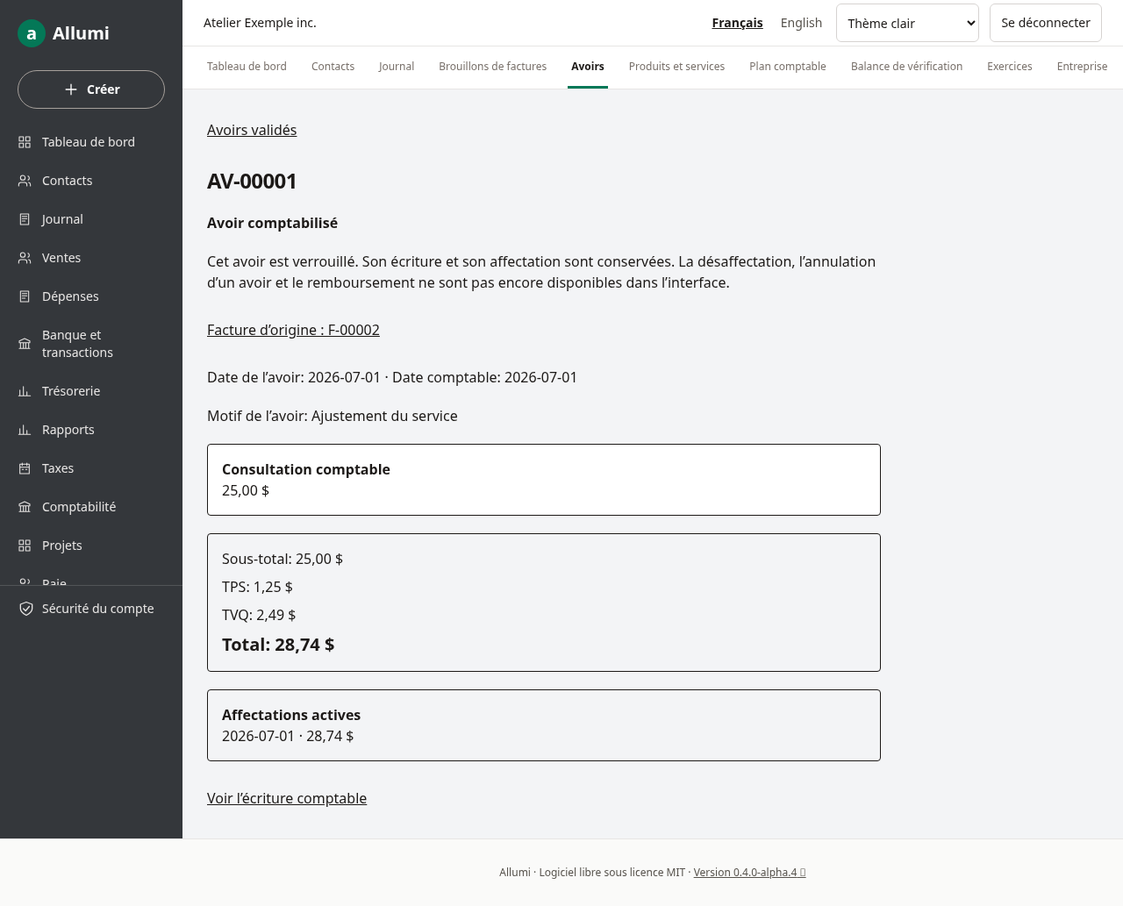
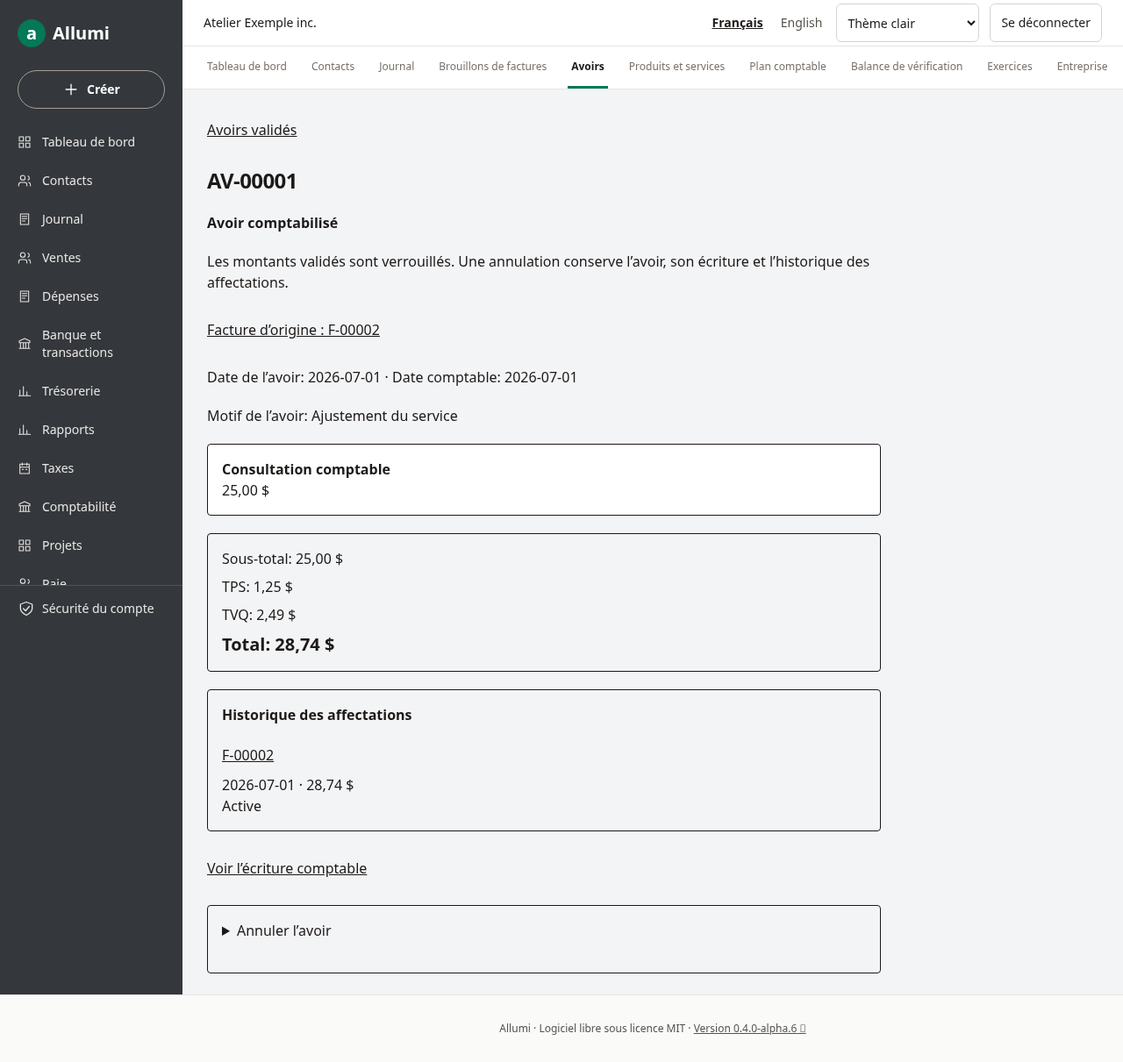
feat(sales): void credit notes with atomic unapplication and history

diff --git a/tests/integration/credit-voiding.test.ts b/tests/integration/credit-voiding.test.ts
@@ -1,0 +1,100 @@
+import { afterAll,beforeAll,expect,it } from "vitest";
+import type pg from "pg";
+import { saveDraft,getDraft,postInvoice,getInvoice,saveCreditDraft,getCreditDraft,postCreditNote,getPostedCredit,getInvoiceOpenCents,voidInvoice,voidCreditNote } from "@/modules/sales";
+import { withCompany } from "@/platform/tenant";
+import { owner } from "./helpers";
+import { randomUUID } from "node:crypto";
+import { appClient, inContext, entry, line, seedWorld,W } from "./world";
+const actor={userId:W.userOwnerA,companyId:W.companyA};
+const reader={...actor,userId:W.userReader};
+let db:pg.Client;
+beforeAll(async()=>{db=await owner();await seedWorld(db);await db.query("INSERT INTO number_sequence(company_id,key,next_value,prefix,padding) VALUES ($1,'JOURNAL_ENTRY',1,'J-',5),($1,'INVOICE',1,'F-',5),($1,'CREDIT_NOTE',1,'AV-',5)",[W.companyA]);});
+afterAll(async()=>{await db?.end();});
+async function invoice(){
+  const id=await saveDraft(actor,{contactId:W.customer,issueDate:"2026-06-01",dueDate:"2026-07-01",lines:[{description:"Service",quantity:"1",unitPrice:"100",accountId:W.sales,taxCodeId:W.taxCodeStandard}]});
+  await postInvoice(actor,id,(await getDraft(actor,id))!.revision,"2026-06-01");return (await getInvoice(actor,id))!;
+}
+async function credit(source:Awaited<ReturnType<typeof invoice>>,amount="25"){
+ const input={issueDate:"2026-07-01",memo:"Partial adjustment",lines:[{lineId:source.lines[0]!.id,amount}]};
+ const id=await saveCreditDraft(actor,source.id,input);return {input,draft:(await getCreditDraft(actor,id))!};
+}
+
+async function postedCredit() {
+ const source=await invoice();const {draft}=await credit(source);
+ await postCreditNote(actor,draft.id,draft.revision,"2026-07-01");
+ return {source,posted:(await getPostedCredit(actor,draft.id))!};
+}
+it("unapplies and exactly reverses once under concurrent retries, preserving history and restoring the invoice",async()=>{
+ const {source,posted}=await postedCredit();
+ await expect(voidCreditNote(reader,posted.id,"2026-07-02","Correction")).rejects.toThrow();
+ await expect(voidCreditNote({userId:W.userOwnerB,companyId:W.companyB},posted.id,"2026-07-02","Correction")).rejects.toThrow();
+ expect(await Promise.all([1,2].map(()=>voidCreditNote(actor,posted.id,"2026-07-02","Correction")))).toEqual([posted.id,posted.id]);
+ const result=(await getPostedCredit(reader,posted.id))!;
+ expect(result).toMatchObject({status:"VOID",number:posted.number,totalCents:posted.totalCents,journalEntryId:posted.journalEntryId,voidReason:"Correction",voidedById:actor.userId});
+ expect(result.creditsApplied).toHaveLength(1);
+ expect(result.creditsApplied[0]).toMatchObject({id:posted.creditsApplied[0]!.id,unappliedById:actor.userId,unappliedDate:new Date("2026-07-02")});
+ expect(await getInvoiceOpenCents(reader,source.id)).toBe(source.totalCents);
+ const original=(await db.query("SELECT account_id,contact_id,tax_id,tax_box,debit_cents::text,credit_cents::text FROM journal_line WHERE entry_id=$1 ORDER BY line_no",[posted.journalEntryId])).rows;
+ const reverse=(await db.query("SELECT account_id,contact_id,tax_id,tax_box,debit_cents::text,credit_cents::text FROM journal_line WHERE entry_id=$1 ORDER BY line_no",[result.voidEntryId])).rows;
+ expect(reverse).toEqual(original.map(l=>({...l,debit_cents:l.credit_cents,credit_cents:l.debit_cents})));
+ expect((await db.query("SELECT count(*)::int n FROM journal_entry WHERE reverses_entry_id=$1",[posted.journalEntryId])).rows[0].n).toBe(1);
+ const audit=(await db.query("SELECT after->>'status' AS status FROM audit_log WHERE entity_id=$1 AND action='row.update'",[posted.id])).rows;
+ expect(audit.map(r=>r.status)).toContain("VOID");
+ const applicationAudit=(await db.query("SELECT after->>'unapplied_by_id' AS actor FROM audit_log WHERE entity_id=$1 AND action='row.update'",[posted.creditsApplied[0]!.id])).rows;
+ expect(applicationAudit.map(r=>r.actor)).toContain(actor.userId);
+ await voidInvoice(actor,source.id,"2026-07-03","Corrected source");
+});
+it("rolls back the unapplication and number when the reversal period is locked",async()=>{
+ const {source,posted}=await postedCredit();
+ await db.query("UPDATE fiscal_period SET status='LOCKED',locked_at=now(),locked_by_id=$2 WHERE company_id=$1 AND period_number=8",[W.companyA,W.userOwnerA]);
+ const before=(await db.query("SELECT next_value::text FROM number_sequence WHERE company_id=$1 AND key='JOURNAL_ENTRY'",[actor.companyId])).rows;
+ await expect(voidCreditNote(actor,posted.id,"2026-08-02","Locked")).rejects.toThrow();
+ expect((await getPostedCredit(actor,posted.id))!.creditsApplied[0]!.unappliedDate).toBeNull();
+ expect((await getPostedCredit(actor,posted.id))!.status).toBe("POSTED");
+ expect(await getInvoiceOpenCents(actor,source.id)).toBe(8624n);
+ expect((await db.query("SELECT next_value::text FROM number_sequence WHERE company_id=$1 AND key='JOURNAL_ENTRY'",[actor.companyId])).rows).toEqual(before);
+ await voidCreditNote(actor,posted.id,"2026-09-01","Open period");
+});
+it("rejects missing reasons, draft credits and dates before posting or historical unapplication",async()=>{
+ const {source,posted}=await postedCredit();
+ for(const [date,reason] of [["bad","Reason"],["2026-07-02"," "],["2026-07-02","x".repeat(501)],["2026-06-30","Reason"]]) await expect(voidCreditNote(actor,posted.id,date!,reason!)).rejects.toThrow();
+ const draft=await credit(source);await expect(voidCreditNote(actor,draft.draft.id,"2026-07-02","Reason")).rejects.toThrow();
+ await withCompany(actor,tx=>tx.salesCreditApplication.update({where:{id:posted.creditsApplied[0]!.id,companyId:actor.companyId},data:{unappliedDate:new Date("2026-07-10"),unappliedById:actor.userId}}));
+ await expect(voidCreditNote(actor,posted.id,"2026-07-09","Too early")).rejects.toThrow("sales.creditVoidDate");
+ await voidCreditNote(actor,posted.id,"2026-07-10","Already unapplied");
+ expect((await getPostedCredit(actor,posted.id))!.creditsApplied[0]!.unappliedDate).toEqual(new Date("2026-07-10"));
+});
+it("does not silently remove an application to another invoice",async()=>{
+ const {posted}=await postedCredit();const target=await invoice();
+ await withCompany(actor,async tx=>{
+  await tx.salesCreditApplication.update({where:{id:posted.creditsApplied[0]!.id,companyId:actor.companyId},data:{unappliedDate:new Date("2026-07-02"),unappliedById:actor.userId}});
+  await tx.salesCreditApplication.create({data:{companyId:actor.companyId,creditNoteId:posted.id,invoiceId:target.id,amountCents:posted.totalCents,appliedDate:new Date("2026-07-02"),createdById:actor.userId}});
+ });
+ await expect(voidCreditNote(actor,posted.id,"2026-07-03","Correction")).rejects.toThrow("sales.creditVoidLinked");
+ expect(await getInvoiceOpenCents(actor,target.id)).toBe(8624n);
+ expect((await getPostedCredit(actor,posted.id))!.status).toBe("POSTED");
+});
+it("allows a replacement credit after voiding and serializes a competing new posting",async()=>{
+ const source=await invoice();const first=await credit(source,"60"),second=await credit(source,"60");
+ await postCreditNote(actor,first.draft.id,first.draft.revision,"2026-07-01");
+ await Promise.allSettled([voidCreditNote(actor,first.draft.id,"2026-07-02","Replace"),postCreditNote(actor,second.draft.id,second.draft.revision,"2026-07-02")]);
+ expect((await getPostedCredit(actor,first.draft.id))!.status).toBe("VOID");
+ await postCreditNote(actor,second.draft.id,second.draft.revision,"2026-07-02");
+ expect(await getInvoiceOpenCents(actor,source.id)).toBe(4599n);
+});
+
+it("refuses an active refund without altering the credit or allocation",async()=>{
+ const {posted}=await postedCredit();
+ const app=await appClient();const paymentId=randomUUID(),entryId=randomUUID();
+ try {await inContext(app,actor,async()=>{
+  await app.query("UPDATE sales_credit_application SET unapplied_date='2026-07-02',unapplied_by_id=app_current_user_id() WHERE credit_note_id=$1",[posted.id]);
+  await entry(app,{id:entryId,no:90001,date:"2026-07-02",source:"PAYMENT",sourceId:paymentId});
+  await line(app,entryId,1,W.bank,{credit:2874});
+  await line(app,entryId,2,W.receivable,{debit:2874,contact:W.customer});
+  await app.query("INSERT INTO payment(id,company_id,direction,ledger,contact_id,payment_date,amount_cents,account_id,method,journal_entry_id,created_by_id,updated_at) VALUES($1,app_tenant_id(),'SENT','RECEIVABLE',$2,'2026-07-02',2874,$3,'EFT',$4,app_current_user_id(),now())",[paymentId,W.customer,W.bank,entryId]);
+  await app.query("INSERT INTO payment_allocation(id,company_id,payment_id,sales_document_id,amount_cents,applied_date,created_by_id) VALUES(gen_random_uuid(),app_tenant_id(),$1,$2,2874,'2026-07-02',app_current_user_id())",[paymentId,posted.id]);
+ },{commit:true});} finally {await app.end();}
+ await expect(voidCreditNote(actor,posted.id,"2026-07-03","Refund exists")).rejects.toThrow("sales.creditVoidLinked");
+ expect((await getPostedCredit(actor,posted.id))!.status).toBe("POSTED");
+ expect((await db.query("SELECT unapplied_date FROM payment_allocation WHERE payment_id=$1",[paymentId])).rows[0].unapplied_date).toBeNull();
+});

diff --git a/src/app/c/[companyId]/factures/validees/[invoiceId]/page.tsx b/src/app/c/[companyId]/factures/validees/[invoiceId]/page.tsx
@@ -24,5 +24,5 @@ export default async function Page({ params }: { params: Promise<{ companyId: st
   const credits = await listCreditDrafts(actor, invoiceId);
   const postedCredits = await listPostedCredits(actor, invoiceId);
   const openCents = await getInvoiceOpenCents(actor, invoiceId);
-  return <section className="max-w-4xl space-y-5"><Link href={`/c/${company.id}/factures/validees`} className="inline-flex min-h-11 items-center underline">{t("postedList")}</Link><h1 className="text-2xl font-semibold">{invoice.number}</h1><p className="font-semibold">{t(invoice.status === "VOID" ? "voided" : "posted")}</p>{invoice.status === "VOID" && <div className="space-y-2 rounded border border-amber-600 p-4"><p>{t("voidHint")}</p><p>{t("voidDate")}: {invoice.voidEntry?.entryDate.toISOString().slice(0, 10)}</p><p className="whitespace-pre-wrap break-words">{t("reason")}: {invoice.voidReason}</p><Link className="inline-flex min-h-11 items-center underline" href={`/c/${company.id}/journal/${invoice.voidEntryId}`}>{t("reversal")}</Link></div>}<p>{t("postedHint")}</p>{invoice.status === "POSTED" && <p className="text-xl font-semibold">{c("openBalance")}: {formatMoney(openCents ?? 0n,locale)}</p>}{postedCredits.slice(0,100).map(credit=><Link key={credit.id} className="block min-h-11 underline" href={`/c/${company.id}/avoirs/valides/${credit.id}`}>{credit.number} · {formatMoney(credit.totalCents,locale)}</Link>)}<div className="space-y-2">{invoice.status === "POSTED" && can(company.role, "sales.manage") && <Link className="inline-flex min-h-11 items-center rounded border px-4" href={`/c/${company.id}/avoirs/nouveau?facture=${invoiceId}`}>{c("new")}</Link>}{credits.slice(0,100).map(credit => <Link key={credit.id} className="block min-h-11 break-words underline" href={`/c/${company.id}/avoirs/${credit.id}`}>{c("draft")}: {credit.memo} · {formatMoney(credit.totalCents, locale)}</Link>)}{credits.length > 100 && <Link className="block min-h-11 underline" href={`/c/${company.id}/avoirs`}>{c("limit")}</Link>}</div><p>{t("date")}: {invoice.issueDate.toISOString().slice(0, 10)} · {t("postingDate")}: {invoice.postingDate.toISOString().slice(0, 10)}</p><p>{t("due")}: {invoice.dueDate?.toISOString().slice(0, 10)}</p>{invoice.reference && <p className="break-words">{t("reference")}: {invoice.reference}</p>}<div className="grid gap-4 sm:grid-cols-2">{([["issuer", invoice.issuerSnapshot], ["billedTo", invoice.billingSnapshot]] as const).map(([key, value]) => <section key={key} className="rounded border p-4 break-words"><h2 className="font-semibold">{t(key)}</h2>{snapshot(value).map((text, i) => <p key={i}>{text}</p>)}</section>)}</div><ul className="space-y-3">{invoice.lines.map(line => <li key={line.id} className="rounded border bg-white p-4 dark:bg-stone-900"><h2 className="font-semibold break-words">{line.description}</h2><p>{line.quantity.toString()} × {line.unitPrice.toString()} CAD</p><p>{formatMoney(line.amountCents, locale)}</p></li>)}</ul><div className="space-y-2 rounded border p-4"><p>{t("subtotal")}: {formatMoney(invoice.subtotalCents, locale)}</p>{invoice.taxes.map(tax => <p key={tax.id}>{tax.tax.code}: {formatMoney(tax.amountCents, locale)}</p>)}<p className="text-xl font-semibold">{t("total")}: {formatMoney(invoice.totalCents, locale)}</p></div>{invoice.memo && <p className="whitespace-pre-wrap break-words">{invoice.memo}</p>}<Link className="inline-flex min-h-11 items-center underline" href={`/c/${company.id}/journal/${invoice.journalEntryId}`}>{t("journal")}</Link>{invoice.status === "POSTED" && can(company.role, "sales.manage") && <details className="rounded border p-4"><summary className="min-h-11 cursor-pointer">{t("void")}</summary><ActionForm action={voidInvoiceAction.bind(null, company.id, invoiceId)} label={t("void")}><p>{t("voidWarning")}</p><Field name="voidDate" label={t("voidDate")} type="date" defaultValue={todayIso() > invoice.postingDate.toISOString().slice(0, 10) ? todayIso() : invoice.postingDate.toISOString().slice(0, 10)} /><Field name="reason" label={t("reason")} /><label className="inline-flex min-h-11 items-center gap-3"><input type="checkbox" name="confirm" value="yes" required />{t("confirmVoid")}</label></ActionForm></details>}</section>;
+  return <section className="max-w-4xl space-y-5"><Link href={`/c/${company.id}/factures/validees`} className="inline-flex min-h-11 items-center underline">{t("postedList")}</Link><h1 className="text-2xl font-semibold">{invoice.number}</h1><p className="font-semibold">{t(invoice.status === "VOID" ? "voided" : "posted")}</p>{invoice.status === "VOID" && <div className="space-y-2 rounded border border-amber-600 p-4"><p>{t("voidHint")}</p><p>{t("voidDate")}: {invoice.voidEntry?.entryDate.toISOString().slice(0, 10)}</p><p className="whitespace-pre-wrap break-words">{t("reason")}: {invoice.voidReason}</p><Link className="inline-flex min-h-11 items-center underline" href={`/c/${company.id}/journal/${invoice.voidEntryId}`}>{t("reversal")}</Link></div>}<p>{t("postedHint")}</p>{invoice.status === "POSTED" && <p className="text-xl font-semibold">{c("openBalance")}: {formatMoney(openCents ?? 0n,locale)}</p>}{postedCredits.slice(0,100).map(credit=><Link key={credit.id} className="block min-h-11 underline" href={`/c/${company.id}/avoirs/valides/${credit.id}`}>{credit.number} · {formatMoney(credit.totalCents,locale)} · {c(credit.status === "VOID" ? "voided" : "posted")}</Link>)}<div className="space-y-2">{invoice.status === "POSTED" && can(company.role, "sales.manage") && <Link className="inline-flex min-h-11 items-center rounded border px-4" href={`/c/${company.id}/avoirs/nouveau?facture=${invoiceId}`}>{c("new")}</Link>}{credits.slice(0,100).map(credit => <Link key={credit.id} className="block min-h-11 break-words underline" href={`/c/${company.id}/avoirs/${credit.id}`}>{c("draft")}: {credit.memo} · {formatMoney(credit.totalCents, locale)}</Link>)}{credits.length > 100 && <Link className="block min-h-11 underline" href={`/c/${company.id}/avoirs`}>{c("limit")}</Link>}</div><p>{t("date")}: {invoice.issueDate.toISOString().slice(0, 10)} · {t("postingDate")}: {invoice.postingDate.toISOString().slice(0, 10)}</p><p>{t("due")}: {invoice.dueDate?.toISOString().slice(0, 10)}</p>{invoice.reference && <p className="break-words">{t("reference")}: {invoice.reference}</p>}<div className="grid gap-4 sm:grid-cols-2">{([["issuer", invoice.issuerSnapshot], ["billedTo", invoice.billingSnapshot]] as const).map(([key, value]) => <section key={key} className="rounded border p-4 break-words"><h2 className="font-semibold">{t(key)}</h2>{snapshot(value).map((text, i) => <p key={i}>{text}</p>)}</section>)}</div><ul className="space-y-3">{invoice.lines.map(line => <li key={line.id} className="rounded border bg-white p-4 dark:bg-stone-900"><h2 className="font-semibold break-words">{line.description}</h2><p>{line.quantity.toString()} × {line.unitPrice.toString()} CAD</p><p>{formatMoney(line.amountCents, locale)}</p></li>)}</ul><div className="space-y-2 rounded border p-4"><p>{t("subtotal")}: {formatMoney(invoice.subtotalCents, locale)}</p>{invoice.taxes.map(tax => <p key={tax.id}>{tax.tax.code}: {formatMoney(tax.amountCents, locale)}</p>)}<p className="text-xl font-semibold">{t("total")}: {formatMoney(invoice.totalCents, locale)}</p></div>{invoice.memo && <p className="whitespace-pre-wrap break-words">{invoice.memo}</p>}<Link className="inline-flex min-h-11 items-center underline" href={`/c/${company.id}/journal/${invoice.journalEntryId}`}>{t("journal")}</Link>{invoice.status === "POSTED" && can(company.role, "sales.manage") && <details className="rounded border p-4"><summary className="min-h-11 cursor-pointer">{t("void")}</summary><ActionForm action={voidInvoiceAction.bind(null, company.id, invoiceId)} label={t("void")}><p>{t("voidWarning")}</p><Field name="voidDate" label={t("voidDate")} type="date" defaultValue={todayIso() > invoice.postingDate.toISOString().slice(0, 10) ? todayIso() : invoice.postingDate.toISOString().slice(0, 10)} /><Field name="reason" label={t("reason")} /><label className="inline-flex min-h-11 items-center gap-3"><input type="checkbox" name="confirm" value="yes" required />{t("confirmVoid")}</label></ActionForm></details>}</section>;
 }

diff --git a/src/app/c/[companyId]/avoirs/valides/[creditId]/page.tsx b/src/app/c/[companyId]/avoirs/valides/[creditId]/page.tsx
@@ -2,10 +2,49 @@ import Link from "next/link";
 import { notFound } from "next/navigation";
 import { getTranslations } from "next-intl/server";
 import { getPostedCredit } from "@/modules/sales";
-import { formatMoney } from "@/modules/ledger";
+import { can } from "@/modules/companies";
+import { formatMoney, todayIso } from "@/modules/ledger";
+import { ActionForm, Field } from "@/app/_components/ui";
 import { loadCompany } from "../../../_lib";
 import { validId } from "../../../factures/editor";
-export default async function Page({params}:{params:Promise<{companyId:string;creditId:string}>}){
- const {company,actor,locale}=await loadCompany(params);const {creditId}=await params;if(!validId(creditId))notFound();const credit=await getPostedCredit(actor,creditId);if(!credit)notFound();const t=await getTranslations("credits");const s=await getTranslations("sales");
- return <section className="max-w-3xl space-y-5"><Link className="inline-flex min-h-11 items-center underline" href={`/c/${company.id}/avoirs/valides`}>{t("postedList")}</Link><h1 className="text-2xl font-semibold">{credit.number}</h1><p className="font-semibold">{t(credit.status==="VOID"?"voided":"posted")}</p><p>{t("postedHint")}</p><Link className="inline-flex min-h-11 items-center underline" href={`/c/${company.id}/factures/validees/${credit.creditedDocumentId}`}>{t("source",{number:credit.creditedDocument?.number??""})}</Link><p>{t("date")}: {credit.issueDate.toISOString().slice(0,10)} · {s("postingDate")}: {credit.postingDate.toISOString().slice(0,10)}</p><p className="whitespace-pre-wrap break-words">{t("reason")}: {credit.memo}</p><ul className="space-y-3">{credit.lines.map(l=><li key={l.id} className="rounded border bg-white p-4 dark:bg-stone-900"><h2 className="font-semibold break-words">{l.description}</h2><p>{formatMoney(l.amountCents,locale)}</p></li>)}</ul><div className="space-y-2 rounded border p-4"><p>{s("subtotal")}: {formatMoney(credit.subtotalCents,locale)}</p>{credit.taxes.map(tax=><p key={tax.id}>{tax.tax.code}: {formatMoney(tax.amountCents,locale)}</p>)}<p className="text-xl font-semibold">{s("total")}: {formatMoney(credit.totalCents,locale)}</p></div><section className="rounded border p-4"><h2 className="font-semibold">{t("applications")}</h2>{credit.creditsApplied.filter(a=>!a.unappliedDate).map(a=><p key={a.id}>{a.appliedDate.toISOString().slice(0,10)} · {formatMoney(a.amountCents,locale)}</p>)}</section><Link className="inline-flex min-h-11 items-center underline" href={`/c/${company.id}/journal/${credit.journalEntryId}`}>{s("journal")}</Link></section>;
+import { voidCreditAction } from "../../actions";
+
+export default async function Page({ params }: { params: Promise<{ companyId: string; creditId: string }> }) {
+  const { company, actor, locale } = await loadCompany(params);
+  const { creditId } = await params;
+  if (!validId(creditId)) notFound();
+  const credit = await getPostedCredit(actor, creditId);
+  if (!credit) notFound();
+  const t = await getTranslations("credits");
+  const s = await getTranslations("sales");
+  return <section className="max-w-3xl space-y-5">
+    <Link className="inline-flex min-h-11 items-center underline" href={`/c/${company.id}/avoirs/valides`}>{t("postedList")}</Link>
+    <h1 className="text-2xl font-semibold">{credit.number}</h1>
+    <p className="font-semibold">{t(credit.status === "VOID" ? "voided" : "posted")}</p>
+    {credit.status === "VOID" && <div className="space-y-2 rounded border border-amber-600 p-4">
+      <p>{t("voidHint")}</p><p>{s("voidDate")}: {credit.voidEntry?.entryDate.toISOString().slice(0, 10)}</p>
+      <p className="whitespace-pre-wrap break-words">{s("reason")}: {credit.voidReason}</p>
+      <Link className="inline-flex min-h-11 items-center underline" href={`/c/${company.id}/journal/${credit.voidEntryId}`}>{s("reversal")}</Link>
+    </div>}
+    <p>{t("postedHint")}</p>
+    <Link className="inline-flex min-h-11 items-center underline" href={`/c/${company.id}/factures/validees/${credit.creditedDocumentId}`}>{t("source", { number: credit.creditedDocument?.number ?? "" })}</Link>
+    <p>{t("date")}: {credit.issueDate.toISOString().slice(0, 10)} · {s("postingDate")}: {credit.postingDate.toISOString().slice(0, 10)}</p>
+    <p className="whitespace-pre-wrap break-words">{t("reason")}: {credit.memo}</p>
+    <ul className="space-y-3">{credit.lines.map(l => <li key={l.id} className="rounded border bg-white p-4 dark:bg-stone-900"><h2 className="font-semibold break-words">{l.description}</h2><p>{formatMoney(l.amountCents, locale)}</p></li>)}</ul>
+    <div className="space-y-2 rounded border p-4"><p>{s("subtotal")}: {formatMoney(credit.subtotalCents, locale)}</p>{credit.taxes.map(tax => <p key={tax.id}>{tax.tax.code}: {formatMoney(tax.amountCents, locale)}</p>)}<p className="text-xl font-semibold">{s("total")}: {formatMoney(credit.totalCents, locale)}</p></div>
+    <section className="space-y-3 rounded border p-4"><h2 className="font-semibold">{t("applications")}</h2>{credit.creditsApplied.map(a => <div key={a.id}>
+      <Link className="inline-flex min-h-11 items-center underline" href={`/c/${company.id}/factures/validees/${a.invoiceId}`}>{a.invoice.number}</Link>
+      <p>{a.appliedDate.toISOString().slice(0, 10)} · {formatMoney(a.amountCents, locale)}</p>
+      <p>{a.unappliedDate ? t("unapplied", { date: a.unappliedDate.toISOString().slice(0, 10) }) : t("active")}</p>
+    </div>)}</section>
+    <Link className="inline-flex min-h-11 items-center underline" href={`/c/${company.id}/journal/${credit.journalEntryId}`}>{s("journal")}</Link>
+    {credit.status === "POSTED" && can(company.role, "sales.manage") && <details className="rounded border p-4">
+      <summary className="min-h-11 cursor-pointer">{t("void")}</summary>
+      <ActionForm action={voidCreditAction.bind(null, company.id, creditId)} label={t("void")}>
+        <p>{t("voidWarning")}</p><Field name="voidDate" label={s("voidDate")} type="date" defaultValue={todayIso() > credit.postingDate.toISOString().slice(0, 10) ? todayIso() : credit.postingDate.toISOString().slice(0, 10)} />
+        <Field name="reason" label={s("reason")} />
+        <label className="inline-flex min-h-11 items-center gap-3"><input type="checkbox" name="confirm" value="yes" required />{t("confirmVoid")}</label>
+      </ActionForm>
+    </details>}
+  </section>;
 }

diff --git a/src/modules/sales/service/credit-voiding.ts b/src/modules/sales/service/credit-voiding.ts
@@ -1,0 +1,33 @@
+import "server-only";
+import { requireRole } from "@/modules/companies";
+import { createInvoiceReversal, isValidIsoDate } from "@/modules/ledger";
+import { AppError, toAppError } from "@/platform/errors";
+import { withCompany, type CompanyContext } from "@/platform/tenant";
+
+/** Unapply from the original invoice and reverse the credit atomically. */
+export async function voidCreditNote(actor: CompanyContext, id: string, date: string, reason: string) {
+  const memo = reason.trim();
+  if (!isValidIsoDate(date) || !memo || memo.length > 500) throw new AppError("sales.invalidVoid");
+  try {
+    return await withCompany(actor, async tx => {
+      await requireRole(tx, "sales.manage");
+      const reference = await tx.salesDocument.findFirst({ where: { companyId: actor.companyId, id, kind: "CREDIT_NOTE" }, select: { creditedDocumentId: true } });
+      if (!reference?.creditedDocumentId) throw new AppError("sales.creditSource");
+      // Match posting/draft lock order: source invoice before its credit.
+      await tx.$queryRaw`SELECT id FROM sales_document WHERE company_id=${actor.companyId}::uuid AND id=${reference.creditedDocumentId}::uuid FOR UPDATE`;
+      await tx.$queryRaw`SELECT id FROM sales_document WHERE company_id=${actor.companyId}::uuid AND id=${id}::uuid FOR UPDATE`;
+      const credit = await tx.salesDocument.findFirstOrThrow({ where: { companyId: actor.companyId, id }, include: { creditsApplied: true, allocations: true } });
+      if (credit.status === "VOID") return id;
+      if (credit.status !== "POSTED" || !credit.journalEntryId || credit.creditedDocumentId !== reference.creditedDocumentId) throw new AppError("sales.stale");
+      const history = [...credit.creditsApplied, ...credit.allocations];
+      if (date < credit.postingDate.toISOString().slice(0, 10) || history.some(a => date < (a.unappliedDate ?? a.appliedDate).toISOString().slice(0, 10))) throw new AppError("sales.creditVoidDate");
+      // Do not silently alter refunds or applications to other invoices.
+      if (credit.allocations.some(a => !a.unappliedDate) || credit.creditsApplied.some(a => !a.unappliedDate && a.invoiceId !== reference.creditedDocumentId)) throw new AppError("sales.creditVoidLinked");
+      await tx.salesCreditApplication.updateMany({ where: { companyId: actor.companyId, creditNoteId: id, invoiceId: reference.creditedDocumentId, unappliedDate: null }, data: { unappliedDate: new Date(`${date}T00:00:00Z`), unappliedById: actor.userId } });
+      const reversal = await createInvoiceReversal(tx, actor, { documentId: id, entryId: credit.journalEntryId, date, memo });
+      await tx.salesDocument.update({ where: { companyId: actor.companyId, id }, data: { status: "VOID", voidEntryId: reversal.id, voidedAt: new Date(), voidedById: actor.userId, voidReason: memo } });
+      await tx.$executeRaw`SET CONSTRAINTS ALL IMMEDIATE`;
+      return id;
+    });
+  } catch (error) { throw toAppError(error); }
+}

diff --git a/tests/e2e/journey.spec.ts b/tests/e2e/journey.spec.ts
@@ -725,6 +725,26 @@ async function creditPostingJourney(page: Page) {
   await page.getByRole("link",{name:"View journal entry",exact:true}).click();
   await expect(page.getByRole("heading",{name:"Entry J-00006",exact:true})).toBeVisible();
   await page.goto(creditUrl);
+  await page.locator("summary",{hasText:"Void credit note"}).click();
+  await page.getByLabel("Reversal date",{exact:true}).fill("2026-06-30");
+  await page.getByLabel("Reason",{exact:true}).fill("Incorrect adjustment");
+  await page.getByLabel("I confirm permanently voiding this credit note.").check();
+  await page.getByRole("button",{name:"Void credit note",exact:true}).click();
+  await expect(page.locator("form").getByRole("alert")).toBeVisible();
+  await page.getByLabel("Reversal date",{exact:true}).fill("2026-07-02");
+  await page.getByLabel("I confirm permanently voiding this credit note.").check();
+  await page.getByRole("button",{name:"Void credit note",exact:true}).click();
+  await expect(page.getByText("Voided credit note",{exact:true})).toBeVisible();
+  await expect(page.getByText("Unapplied on 2026-07-02",{exact:true})).toBeVisible();
+  await expect(page.locator("summary",{hasText:"Void credit note"})).toHaveCount(0);
+  await expectNoPageOverflow(page);await captureReference(page,"avoir-annule-en-dark");
+  await page.getByRole("button",{name:"Français",exact:true}).click();
+  await page.getByRole("combobox",{name:"Apparence",exact:true}).selectOption("light");
+  await expect(page.locator("html")).toHaveAttribute("data-theme","light");
+  await captureReference(page,"avoir-annule");
+  await page.goto(invoiceUrl);await expect(page.getByText(/Solde restant:.*114,98/)).toBeVisible();
+  await page.goto(creditUrl);
+  await page.getByRole("button",{name:"English",exact:true}).click();
   await page.getByRole("link",{name:"Posted credit notes",exact:true}).click();
   await expect(page.getByRole("link",{name:/AV-00001/})).toBeVisible();
   await page.getByRole("button",{name:"Français",exact:true}).click();

diff --git a/src/modules/sales/service/credit-posting.ts b/src/modules/sales/service/credit-posting.ts
@@ -47,7 +47,7 @@ export async function postCreditNote(actor: CompanyContext, id: string, revision
 export async function getPostedCredit(actor: CompanyContext, id: string) {
   return withCompany(actor, async tx => {
     await requireRole(tx,"sales.read");
-    return tx.salesDocument.findFirst({ where:{ companyId:actor.companyId,id,kind:"CREDIT_NOTE",status:{in:["POSTED","VOID"]} },include:{ lines:{orderBy:{position:"asc"}},taxes:{include:{tax:{select:{code:true}}}},creditedDocument:{select:{id:true,number:true}},creditsApplied:true } });
+    return tx.salesDocument.findFirst({ where:{ companyId:actor.companyId,id,kind:"CREDIT_NOTE",status:{in:["POSTED","VOID"]} },include:{ lines:{orderBy:{position:"asc"}},taxes:{include:{tax:{select:{code:true}}}},creditedDocument:{select:{id:true,number:true}},creditsApplied:{orderBy:[{appliedDate:"asc"},{id:"asc"}],include:{invoice:{select:{number:true}}}},voidEntry:{select:{entryDate:true}} } });
   });
 }
 export async function listPostedCredits(actor: CompanyContext, invoiceId?: string) {

diff --git a/src/app/c/[companyId]/avoirs/actions.ts b/src/app/c/[companyId]/avoirs/actions.ts
@@ -37,3 +37,15 @@ export async function postCreditAction(companyId: string, id: string, revision: 
     redirect(`/c/${companyId}/avoirs/valides/${id}`);
   },values);
 }
+
+export async function voidCreditAction(companyId: string, id: string, _previous: FormState, form: FormData): Promise<FormState> {
+  const values = textValues(form, ["voidDate", "reason"]);
+  return safeAction(async () => {
+    if (form.get("confirm") !== "yes") throw new AppError("sales.confirmCreditVoid");
+    const session = await requireSession();
+    const { voidCreditNote } = await import("@/modules/sales");
+    await voidCreditNote({ userId: session.userId, companyId }, id, values.voidDate ?? "", values.reason ?? "");
+    revalidatePath(`/c/${companyId}`, "layout");
+    redirect(`/c/${companyId}/avoirs/valides/${id}`);
+  }, values);
+}

diff --git a/src/modules/sales/index.ts b/src/modules/sales/index.ts
@@ -3,3 +3,4 @@ export { postInvoice, listInvoices, getInvoice } from "./service/posting";
 export { voidInvoice } from "./service/voiding";
 export { listCreditDrafts, getCreditDraft, saveCreditDraft, deleteCreditDraft, creditAmount } from "./service/credit-drafts";
 export { postCreditNote, getPostedCredit, listPostedCredits, getInvoiceOpenCents } from "./service/credit-posting";
+export { voidCreditNote } from "./service/credit-voiding";

diff --git a/docs/Validation-des-avoirs.md b/docs/Validation-des-avoirs.md
@@ -7,7 +7,7 @@ Un avoir validé corrige une facture comptabilisée : il réduit les revenus et 
 1. Préparer un [[Brouillons-d-avoirs]] depuis une facture validée. Vérifier les montants hors taxes, le motif et les taxes calculées aux taux de la facture d’origine.
 2. Sur la fiche du brouillon, ouvrir **Valider et affecter l’avoir**. Seuls le propriétaire et le comptable peuvent valider.
 3. Choisir une date comptable au moins égale à la date de l’avoir, dans une période ouverte. La date de l’avoir ne peut précéder la date comptable de la facture.
-4. Lire l’avertissement, cocher la confirmation et valider. Cette opération ne peut pas être annulée depuis l’interface actuelle.
+4. Lire l’avertissement, cocher la confirmation et valider. Les montants seront verrouillés; une correction passe par une annulation admissible.
 
 ![Confirmation de validation](images/validation-avoir-desktop.png)
 
@@ -15,7 +15,7 @@ L’application attribue un numéro `AV-…`, crée une écriture équilibrée e
 
 ## Consulter le résultat
 
-Le menu **Avoirs → Avoirs validés** affiche les 100 derniers documents validés ou annulés. Les lecteurs peuvent consulter. La fiche conserve le motif, les lignes, les taxes, la date comptable, les affectations actives et le lien vers le journal. Aucun bouton de modification ou suppression n’est proposé.
+Le menu **Avoirs → Avoirs validés** affiche les 100 derniers documents validés ou annulés. Les lecteurs peuvent consulter. La fiche conserve le motif, les lignes, les taxes, la date comptable, les affectations actives ou retirées et le lien vers le journal. Aucun bouton de modification ou suppression n’est proposé.
 
 ![Avoir validé](images/avoir-valide-desktop.png)
 ![Avoir anglais sombre sur téléphone](images/avoir-valide-en-dark-mobile.png)
@@ -24,12 +24,25 @@ La facture d’origine affiche son **solde restant** et un lien vers l’avoir. 
 
 ![Facture après affectation](images/facture-avec-avoir-desktop.png)
 
+## Annuler un avoir
+
+Le propriétaire ou le comptable peut ouvrir **Annuler l’avoir**, saisir un motif de 1 à 500 caractères et choisir une date dans une période ouverte. Cette date ne peut précéder la comptabilisation, une affectation ou un retrait déjà enregistré. Cocher la confirmation puis valider.
+
+L’opération retire les affectations encore actives à la facture d’origine et crée la contre-passation exacte de l’écriture, taxes et contact compris. Tout réussit ensemble ou rien ne change. Un double envoi ne crée pas une deuxième écriture. La facture retrouve le montant correspondant dans son solde restant; son total original reste inchangé.
+
+Un remboursement actif ou une affectation active vers une autre facture bloque l’annulation. Le parcours ne les retire jamais automatiquement. Une affectation déjà retirée conserve sa date et son auteur. La désaffectation autonome n’est pas proposée.
+
+L’avoir conserve son numéro, ses montants, son motif initial et son écriture d’origine. Le bandeau indique le motif d’annulation, sa date et le lien vers l’écriture inverse. L’historique indique les affectations retirées. Les avoirs annulés restent visibles dans la liste et sur la facture, avec leur statut.
+
+![Avoir annulé et historique](images/avoir-annule-desktop.png)
+![Annulation en anglais sombre sur mobile](images/avoir-annule-en-dark-mobile.png)
+
 ## Refus et limites
 
 - Les avoirs validés cumulés ne peuvent dépasser une ligne originale, une taxe ou le total de la facture. Les comptes, positions et codes de taxe des lignes doivent correspondre à l’original.
 - Les taxes restent calculées aux taux d’origine, avec le mode d’arrondi de la facture. Si plusieurs petits avoirs dépassent une taxe originale à cause des arrondis, la validation est refusée. Aucun ajustement fiscal silencieux n’est effectué.
 - Le solde disponible doit suffire pour affecter **tout** l’avoir. Une facture déjà réglée, ou un solde partiellement utilisé, peut empêcher l’opération. Aucune affectation partielle, autre facture cible ou remboursement n’est proposé dans ce parcours.
 - Une révision périmée, un manque de permission, une facture annulée ou une période fermée entraîne un refus. Le brouillon reste disponible et aucun numéro n’est consommé.
-- Un avoir validé lié empêche l’annulation de la facture d’origine. Désaffectation, annulation de l’avoir, remboursements, PDF et envoi restent à venir. Ne pas modifier la base pour contourner ces contrôles.
+- Un avoir validé lié empêche l’annulation de la facture d’origine. L’annulation de l’avoir retire ses affectations d’origine et lève ce blocage. Désaffectation autonome, réaffectation, remboursements, PDF et envoi restent à venir. Ne pas modifier la base pour contourner ces contrôles.
 
 La migration `20261024000000_credit_posting` est nécessaire; les installations et mises à jour standard l’appliquent via le service de migration. Voir [[Mise-a-jour]] et [[Schema-de-donnees]].

diff --git a/README.md b/README.md
@@ -2,7 +2,7 @@
 
 Logiciel de comptabilité **open source** et **auto-hébergeable** pour les PME et les travailleurs autonomes du Québec et du Canada. Une alternative libre aux logiciels de comptabilité infonuagiques propriétaires.
 
-> **État : pré-alpha.** Le squelette fonctionne (premier démarrage, connexion, vérification en deux étapes, interface FR/EN, Docker); le moteur comptable (plan comptable, journal, périodes, audit) est en place, les contacts, taxes configurables, produits/services et brouillons et validation des factures sont disponibles; brouillons, validation et affectation des avoirs disponibles; paiements à venir ([feuille de route](docs/Feuille-de-route.md)). N'utilise pas Allumi pour de la comptabilité réelle avant une version stable.
+> **État : pré-alpha.** Le squelette fonctionne (premier démarrage, connexion, vérification en deux étapes, interface FR/EN, Docker); le moteur comptable (plan comptable, journal, périodes, audit) est en place, les contacts, taxes configurables, produits/services et brouillons et validation des factures sont disponibles; brouillons, validation, affectation et annulation des avoirs disponibles; paiements à venir ([feuille de route](docs/Feuille-de-route.md)). N'utilise pas Allumi pour de la comptabilité réelle avant une version stable.
 
 *English summary: Allumi is an open-source, self-hostable accounting app for Canadian small businesses (QST/GST aware, French-first, bilingual). The repo ships a Docker Compose stack, an Ubuntu install script, encrypted backups and a full wiki in `docs/`. Application code is in pre-alpha.*
 
@@ -13,7 +13,7 @@ Avec Docker Engine, Compose v2, Bash, OpenSSL et Git déjà installés :
 ```bash
 git clone https://github.com/Installation-04/Allumi.git allumi
 cd allumi
-git checkout v0.4.0-alpha.6
+git checkout v0.4.0-alpha.7
 ./scripts/install-docker.sh --domain compta.exemple.ca --email admin@exemple.ca
 ```
 
@@ -42,7 +42,7 @@ Le script installe Docker, configure le pare-feu, génère les secrets, démarre
 
 ## Windows, iPhone et Proxmox
 
-Le client Windows de la préversion v0.4.0-alpha.6 est distribué via les [Releases](https://github.com/Installation-04/Allumi/releases), avec leur version et leurs sommes de contrôle. Voir le [client Windows](docs/Client-Windows.md). Sur iPhone : **Safari → Partager → Sur l’écran d’accueil**, puis ouvrir Allumi depuis son icône ([guide iOS](docs/Application-mobile.md)). Une connexion au serveur est nécessaire.
+Le client Windows de la préversion v0.4.0-alpha.7 est distribué via les [Releases](https://github.com/Installation-04/Allumi/releases), avec leur version et leurs sommes de contrôle. Voir le [client Windows](docs/Client-Windows.md). Sur iPhone : **Safari → Partager → Sur l’écran d’accueil**, puis ouvrir Allumi depuis son icône ([guide iOS](docs/Application-mobile.md)). Une connexion au serveur est nécessaire.
 
 Pour tester sur Proxmox, utiliser une **VM Ubuntu dédiée** et des données fictives : [guide Proxmox](docs/Proxmox.md). La page **Versions** distingue les mises à jour du serveur et du client.
 
@@ -167,3 +167,9 @@ Numérotation, écriture comptable et affectation intégrale à la facture d’o
 
 ![Avoir validé sur ordinateur](docs/images/avoir-valide-desktop.png)
 ![Avoir validé anglais sombre sur mobile](docs/images/avoir-valide-en-dark-mobile.png)
+
+### Correction d’un avoir validé
+
+L’annulation retire les affectations à la facture d’origine et crée une contre-passation, avec motif et historique conservés. Voir le [guide des avoirs](docs/Validation-des-avoirs.md).
+
+![Avoir annulé](docs/images/avoir-annule-desktop.png)

diff --git a/docs/Feuille-de-route.md b/docs/Feuille-de-route.md
@@ -6,7 +6,7 @@
 | 1 | Architecture finale, schéma de base de données, plan de tests ([[Architecture]], [[Schema-de-donnees]], [[Plan-de-tests]]) | Fait |
 | 2 | Squelette : auth, i18n, `/api/health`, `/setup`, build Docker ([[Premier-demarrage]], [[Authentification]]) | Fait |
 | 3 | Moteur comptable : plan comptable, journal, périodes, audit ([[Plan-comptable]], [[Journal-et-ecritures]], [[Exercices-et-periodes]], [[Piste-d-audit]]) | Fait (PR #2 intégrée) |
-| 4 | Contacts, taxes (moteur de calcul), factures, paiements, dépenses, pièces jointes | Contacts, taxes/catalogue et brouillons disponibles; validation des factures disponible; brouillons d’avoirs disponibles; validation et affectation des avoirs disponibles |
+| 4 | Contacts, taxes (moteur de calcul), factures, paiements, dépenses, pièces jointes | Contacts, taxes/catalogue et brouillons disponibles; validation des factures disponible; brouillons d’avoirs disponibles; validation, affectation et annulation des avoirs disponibles |
 | 5 | Banque (CSV/OFX), rapprochement | À faire |
 | 6 | Rapports (dont le sommaire TPS/TVQ), exports CSV/PDF | À faire |
 | 7 | Version bêta publique | À faire |
@@ -46,6 +46,6 @@ Lot 4.1 : implémentation intégrée à `main`, guide [[Contacts]].
 
 Lot 4.2 : taxes configurables, moteur de calcul exact et catalogue, guide [[Taxes-et-catalogue]].
 
-Lot 4.3a : brouillons de factures disponibles, guide [[Brouillons-de-factures]]. Validation comptable et numérotation définitive disponibles : [[Validation-des-factures]]. Brouillons d’avoirs disponibles : [[Brouillons-d-avoirs]]. Validation des avoirs disponible : [[Validation-des-avoirs]]. Envoi et paiements restent à venir.
+Lot 4.3a : brouillons de factures disponibles, guide [[Brouillons-de-factures]]. Validation comptable et numérotation définitive disponibles : [[Validation-des-factures]]. Brouillons d’avoirs disponibles : [[Brouillons-d-avoirs]]. Validation et annulation des avoirs disponibles : [[Validation-des-avoirs]]. Envoi et paiements restent à venir.
 
 Annulation des factures validées disponible avec contre-passation et historique conservé : [[Annulation-des-factures]].

diff --git a/docs/Annulation-des-factures.md b/docs/Annulation-des-factures.md
@@ -16,7 +16,7 @@ Les montants affichés restent ceux de la facture originale : ils ne représente
 
 ## Contrôles
 
-Une période verrouillée, une date antérieure, un paiement affecté, un avoir affecté ou un avoir validé lié empêchent l’opération. Les outils de désaffectation des paiements et de traitement des avoirs ne sont pas encore disponibles dans l’interface; il ne faut pas contourner ces protections en modifiant directement la base.
+Une période verrouillée, une date antérieure, un paiement affecté, un avoir affecté ou un avoir validé lié empêchent l’opération. Un avoir admissible peut être annulé depuis sa fiche : voir [[Validation-des-avoirs]]. La désaffectation des paiements n’est pas encore disponible; il ne faut pas contourner ces protections en modifiant directement la base.
 
 La contre-passation et le statut sont enregistrés ensemble. Un refus ne laisse aucune écriture partielle. Répéter la demande ou cliquer deux fois ne crée pas de seconde contre-passation et ne remplace pas le premier motif. La piste d’audit conserve le changement.
 
